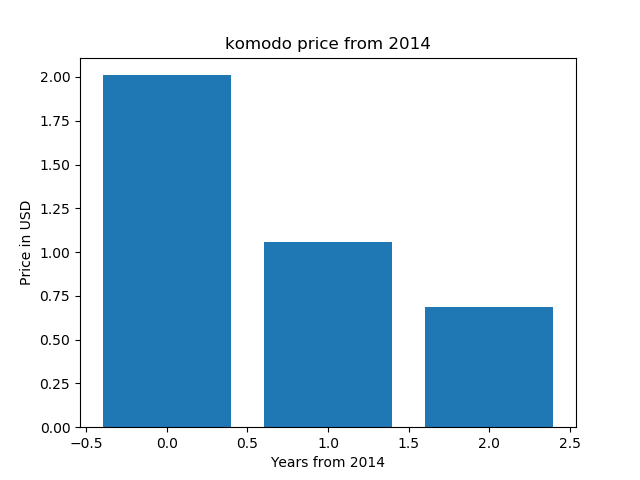
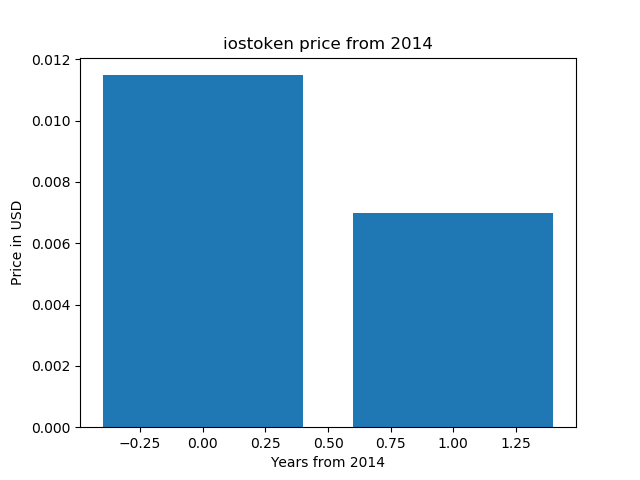
first commit

diff --git a/example.py b/example.py
@@ -10,7 +10,7 @@ from time import gmtime, strftime
 import matplotlib.pyplot as plt
 
 enddate = strftime("%Y%m%d", gmtime())
-r  = requests.get("https://coinmarketcap.com/currencies/komodo/historical-data/?start=20140101&end={0}".format(enddate))
+r  = requests.get("https://coinmarketcap.com/currencies/iostoken/historical-data/?start=20140101&end={0}".format(enddate))
 data = r.text
 
 soup = BeautifulSoup(data, "html.parser")
@@ -44,7 +44,7 @@ print(x)
 
 x = list(range(0, len(prices)))
 
-plt.title('komodo price from 2014')
+plt.title('iostoken price from 2014')
 plt.ylabel('Price in USD')
 plt.xlabel('Years from 2014')
 plt.bar(x, prices)

diff --git a/README.md b/README.md
@@ -1,6 +1,6 @@
-# komodo price chart 
+# iostoken price chart 
 
-komodo price chart (matplotlib, python)
+iostoken price chart (matplotlib, python)
 
 https://pythonprogramminglanguage.com
 
